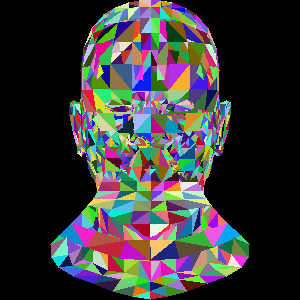
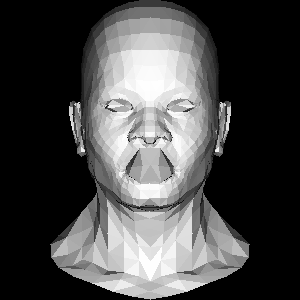
画出了模仿光照的人头图

diff --git a/src/main.cpp b/src/main.cpp
@@ -77,14 +77,24 @@ int main(int argc, char** argv) {
         // Vec2i pts[3] = {Vec2i(10,10), Vec2i(100, 30), Vec2i(190, 160)}; 
         // triangle(pts, image, red); 
         Model model("obj/african_head.obj");
+        
+        Vec3f light_dir(0,0,-1); // define light_dir
+
         for (int i=0; i<model.nfaces(); i++) { 
             std::vector<int> face = model.face(i); 
             Vec2i screen_coords[3]; 
+            Vec3f world_coords[3]; 
             for (int j=0; j<3; j++) { 
-                Vec3f world_coords = model.vert(face[j]); 
-                screen_coords[j] = Vec2i((world_coords.x+1.)*width/2., (world_coords.y+1.)*height/2.); 
+                Vec3f v = model.vert(face[j]); 
+                screen_coords[j] = Vec2i((v.x+1.)*width/2., (v.y+1.)*height/2.); 
+                world_coords[j]  = v; 
             } 
-            triangle(screen_coords, image, TGAColor(rand()%255, rand()%255, rand()%255, 255)); 
+            Vec3f n = (world_coords[2]-world_coords[0])^(world_coords[1]-world_coords[0]); 
+            n.normalize(); 
+            float intensity = n*light_dir; 
+            if (intensity>0) { 
+                triangle(screen_coords, image, TGAColor(intensity*255, intensity*255, intensity*255, 255)); 
+            } 
         }
 
         image.flip_vertically(); // i want to have the origin at the left bottom corner of the image

diff --git a/include/geometry.h b/include/geometry.h
@@ -27,10 +27,13 @@ template <class t> struct Vec3 {
 	};
 	Vec3() : x(0), y(0), z(0) {}
 	Vec3(t _x, t _y, t _z) : x(_x),y(_y),z(_z) {}
+	//叉乘
 	inline Vec3<t> operator ^(const Vec3<t> &v) const { return Vec3<t>(y*v.z-z*v.y, z*v.x-x*v.z, x*v.y-y*v.x); }
+	
 	inline Vec3<t> operator +(const Vec3<t> &v) const { return Vec3<t>(x+v.x, y+v.y, z+v.z); }
 	inline Vec3<t> operator -(const Vec3<t> &v) const { return Vec3<t>(x-v.x, y-v.y, z-v.z); }
 	inline Vec3<t> operator *(float f)          const { return Vec3<t>(x*f, y*f, z*f); }
+	//点乘
 	inline t       operator *(const Vec3<t> &v) const { return x*v.x + y*v.y + z*v.z; }
 	float norm () const { return std::sqrt(x*x+y*y+z*z); }
 	Vec3<t> & normalize(t l=1) { *this = (*this)*(l/norm()); return *this; }
